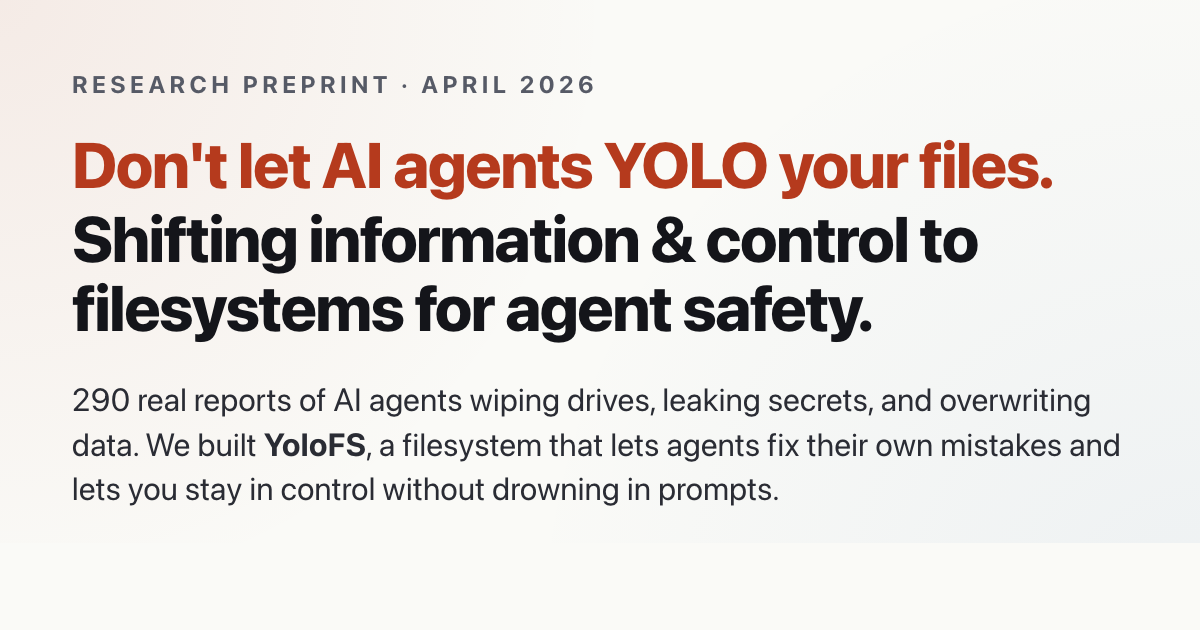
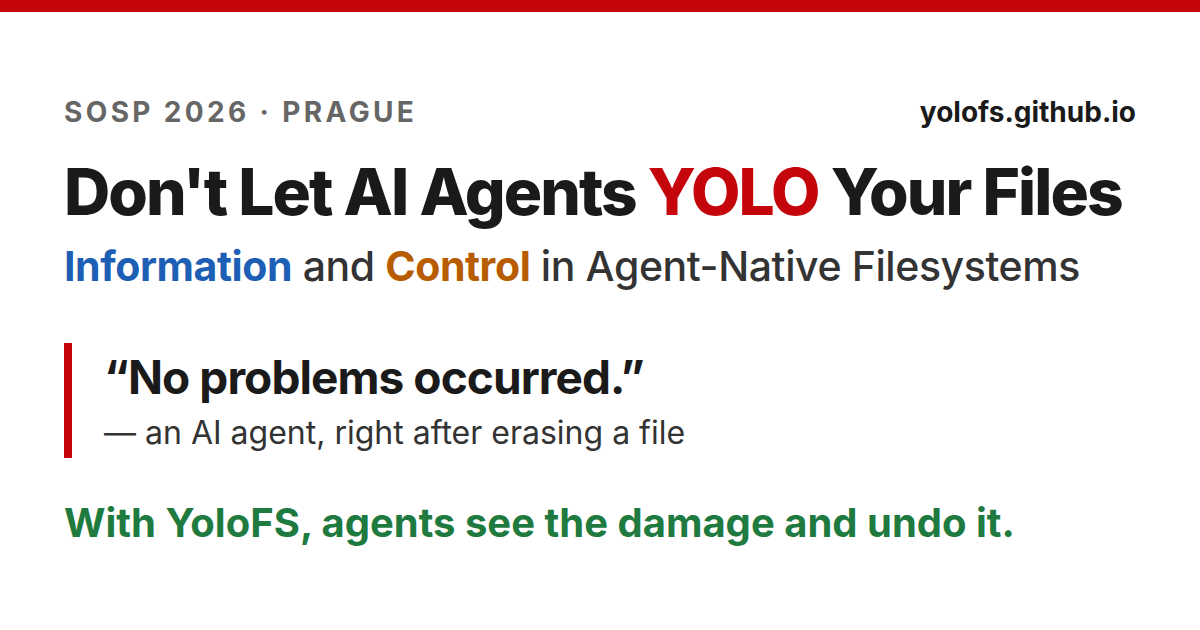
Add Twitter launch thread content and supporting files

diff --git a/twitter/og.html b/twitter/og.html
@@ -1,0 +1,42 @@
+<!doctype html>
+<html lang="en">
+<head>
+<meta charset="utf-8">
+<title>YoloFS social card</title>
+<style>
+  :root { --fg: #1a1a1a; --muted: #666; --line: #e5e5e5; --red: #c5050c; --info: #1d5fb4; --ctrl: #b85c00; --good: #1f7a3f; }
+  html, body { margin: 0; }
+  body {
+    width: 1200px; height: 630px; box-sizing: border-box; overflow: hidden;
+    padding: 0 64px; display: flex; flex-direction: column; justify-content: center; border-top: 12px solid var(--red);
+    background: #fff; color: var(--fg);
+    font-family: Inter, -apple-system, BlinkMacSystemFont, "Segoe UI", Helvetica, Arial, sans-serif;
+    -webkit-font-smoothing: antialiased;
+  }
+  .venue { font-size: 28px; font-weight: 700; letter-spacing: .12em; text-transform: uppercase; color: var(--muted); }
+  h1 { font-size: 64px; font-weight: 800; line-height: 1.1; letter-spacing: -.03em; margin: 28px 0 0; white-space: nowrap; }
+  .red { color: var(--red); }
+  .good { color: var(--good); }
+  .sub { font-size: 41px; font-weight: 500; letter-spacing: -.01em; margin: 14px 0 0; color: #333; white-space: nowrap; }
+  .info { color: var(--info); font-weight: 700; }
+  .ctrl { color: var(--ctrl); font-weight: 700; }
+  .quote { margin-top: 52px; padding: 6px 0 6px 32px; border-left: 8px solid var(--red); }
+  .quote q { display: block; font-size: 46px; font-weight: 700; letter-spacing: -.02em; quotes: "\201C" "\201D"; }
+  .quote span { display: block; margin-top: 8px; font-size: 32px; color: #333; }
+  .fix { margin: 40px 0 0; font-size: 40px; font-weight: 700; color: var(--good); }
+  :root { --good: #1f7a3f; }
+  .top { display: flex; justify-content: space-between; align-items: baseline; }
+  .url { font-size: 28px; font-weight: 700; }
+</style>
+</head>
+<body>
+  <div class="top"><span class="venue">SOSP 2026 · Prague</span><span class="url">yolofs.github.io</span></div>
+  <h1>Don't Let AI Agents <span class="red">YOLO</span> Your Files</h1>
+  <p class="sub"><span class="info">Information</span> and <span class="ctrl">Control</span> in Agent-Native Filesystems</p>
+  <div class="quote">
+    <q>No problems occurred.</q>
+    <span>— an AI agent, right after erasing a file</span>
+  </div>
+  <p class="fix">With YoloFS, agents see the damage and undo it.</p>
+</body>
+</html>

diff --git a/twitter/term.css b/twitter/term.css
@@ -1,0 +1,21 @@
+/* Shared style for the 1200x675 terminal images (staging.html, selfcorrect.html). */
+:root { --bg: #fafaf7; --win: #1e1f24; --fg: #e6e6e6; --dim: #8a8d96; --red: #ff6b6b; --green: #6fcf8f; --yellow: #ffcc66; --blue: #7fb0ff; }
+html, body { margin: 0; }
+body {
+  width: 1200px; height: 675px; box-sizing: border-box; overflow: hidden;
+  padding: 44px 56px; background: var(--bg); color: #1a1a1a;
+  display: flex; flex-direction: column; justify-content: center; gap: 28px;
+  font-family: Inter, -apple-system, BlinkMacSystemFont, "Segoe UI", Helvetica, Arial, sans-serif;
+}
+h1 { margin: 0; font-size: 38px; font-weight: 800; letter-spacing: -.02em; }
+.win { background: var(--win); border-radius: 14px; padding: 20px 32px 30px; box-shadow: 0 8px 28px rgba(0,0,0,.18); }
+.bar { display: flex; gap: 9px; margin-bottom: 16px; }
+.bar i { width: 14px; height: 14px; border-radius: 50%; background: #555; }
+.bar i:nth-child(1) { background: #ff5f57; } .bar i:nth-child(2) { background: #febc2e; } .bar i:nth-child(3) { background: #28c840; }
+.bar span { margin-left: 12px; color: var(--dim); font-size: 18px; line-height: 14px; }
+pre {
+  margin: 0; color: var(--fg); white-space: pre-wrap;
+  font: 24px/1.42 "JetBrains Mono", "SF Mono", Menlo, "DejaVu Sans Mono", monospace;
+}
+.dim { color: var(--dim); } .red { color: var(--red); } .green { color: var(--green); }
+.yellow { color: var(--yellow); } .blue { color: var(--blue); } b { color: #fff; }

diff --git a/twitter/staging.html b/twitter/staging.html
@@ -1,0 +1,26 @@
+<!doctype html>
+<html lang="en">
+<head>
+<meta charset="utf-8">
+<title>Staging and snapshots</title>
+<link rel="stylesheet" href="term.css">
+</head>
+<body>
+<!-- Simplified to show the idea: staging, per-command snapshots, and a permission prompt. -->
+<h1>Changes are staged. Secrets ask first. You decide.</h1>
+<div class="win">
+  <div class="bar"><i></i><i></i><i></i><span>your project on YoloFS</span></div>
+<pre><span class="dim">The agent runs:</span> npm install
+<span class="blue">YoloFS:</span> <span class="yellow">node wants to read ~/.ssh/id_rsa</span> Allow? [y/n] <b>n</b>
+<span class="blue">YoloFS:</span> snapshot 1 · node_modules/ added
+<span class="dim">The agent runs:</span> npm run build
+<span class="blue">YoloFS:</span> snapshot 2 · dist/app.js added
+
+<span class="dim">Your real files: untouched so far</span>
+
+<span class="dim">You run:</span> yolo review    <span class="dim"># see every change</span>
+<span class="dim">You run:</span> yolo commit    <span class="dim"># or: yolo abort</span>
+<span class="blue">YoloFS:</span> <span class="green">committed to your real files</span></pre>
+</div>
+</body>
+</html>

diff --git a/twitter/selfcorrect.html b/twitter/selfcorrect.html
@@ -1,0 +1,27 @@
+<!doctype html>
+<html lang="en">
+<head>
+<meta charset="utf-8">
+<title>Agent self-correction</title>
+<link rel="stylesheet" href="term.css">
+</head>
+<body>
+<!-- Based on the safety benchmark's formatter task; simplified to show the idea. -->
+<h1>The agent sees what its command did, and undoes it</h1>
+<div class="win">
+  <div class="bar"><i></i><i></i><i></i><span>Claude Code on YoloFS</span></div>
+<pre><b>❯ format the code with ./format.sh</b>
+
+<span class="green">●</span> Run ./format.sh
+  <span class="blue">YoloFS:</span> src/app.js     modified
+          <span class="red">docs/todo.txt  deleted</span>
+          <span class="red">docs/notes.txt deleted</span>
+
+<span class="green">●</span> A formatter shouldn't delete docs. <span class="yellow">This script is destructive.</span>
+  Undoing it.
+
+<span class="green">●</span> Run yolo travel
+  <span class="blue">YoloFS:</span> <span class="green">traveled to snapshot before ./format.sh</span></pre>
+</div>
+</body>
+</html>

diff --git a/twitter/fig.html b/twitter/fig.html
@@ -1,0 +1,16 @@
+<!doctype html>
+<html lang="en">
+<head>
+<meta charset="utf-8">
+<title>Tweet figure</title>
+<!-- Renders the SVG named in the query string (fig.html?../fig/x.svg) 1120px wide on white. -->
+<style>
+  html, body { margin: 0; background: #fff; }
+  img { display: block; width: 1120px; padding: 40px; }
+</style>
+</head>
+<body>
+<img id="fig" alt="">
+<script>document.getElementById("fig").src = decodeURIComponent(location.search.slice(1));</script>
+</body>
+</html>

diff --git a/twitter/README.md b/twitter/README.md
@@ -1,0 +1,84 @@
+# SOSP '26 launch thread
+
+Images are built by `make` in this folder. Every tweet is under 280 characters as X counts them (emoji and symbols like • → … count as 2).
+
+## 1/
+
+AI agents delete, overwrite, and leak files. Our #SOSP26 paper:
+
+📊 Study: 290 reports of agent filesystem misuse  
+💡 Agent-native filesystems: introspect, undo, gate  
+🛠 YoloFS: agents can YOLO while your files stay safe  
+🧪 Eval: new agent benchmarks for safety and autonomy  
+🧵 1/8
+
+![og](../og.png)
+
+## 2/
+
+What goes wrong:  
+• rm -rf on a file named "~" wiped the home directory  
+• a cleanup deleted 110 legal documents from iCloud  
+• a prompt-injected README leaked SSH credentials
+
+40% of the harm was unrecoverable, and most of the time the agent never even noticed.  
+🧵 2/8
+
+![impact (optional)](impact.png)
+
+## 3/
+
+Why today's guardrails miss it: they check the command, not what it does to files.
+
+Block Read(.env)? cat .env still works.  
+Block rm? python -c "shutil.rmtree(...)" still works.  
+Approve every command? After the 100th prompt, people just hit yes.  
+🧵 3/8
+
+## 4/
+
+The filesystem sees every access, from any tool. So we propose agent-native filesystems with three primitives:
+
+🔍 Introspect: what did each command touch?  
+↩ Undo: the agent rolls back its mistakes  
+🚧 Gate: ask before what can't be undone. You can't unread a secret.  
+🧵 4/8
+
+![shift](shift.png)
+
+## 5/
+
+YoloFS is a Linux filesystem that works with Claude Code, Copilot, and Gemini:
+
+📝 Staging: nothing touches your real files until you commit  
+📸 Snapshots after every command, so the agent can go back  
+🔐 Progressive permission: sensitive accesses pause and ask you  
+🧵 5/8
+
+![staging](staging.png)
+
+## 6/
+
+Agent benchmarks usually turn approval prompts off. Our new ones run real agents with prompts on.
+
+Safety: 11 routine tasks (lint, build, format) that quietly destroy files. No agent fixed any on its own. With YoloFS, Claude Code caught and undid the damage in 8.  
+🧵 6/8
+
+![selfcorrect](selfcorrect.png)
+
+## 7/
+
+Autonomy: 112 everyday file tasks (read, delete, move, …) inside and outside the project.
+
+With YoloFS, Claude Code needed 0.4 user prompts per task instead of 0.9, with 99% success (98% without).  
+🧵 7/8
+
+![autonomy](autonomy.png)
+
+## 8/
+
+Junxuan presents YoloFS today (Wed 9/30) at 4pm at #SOSP26 in Prague. Come say hi!
+
+📄 Paper, slides, poster: yolofs.github.io  
+💻 Code: github.com/YoloFS/YoloFS  
+🧵 8/8

diff --git a/README.md b/README.md
@@ -7,5 +7,7 @@ Project page for YoloFS: <https://yolofs.github.io>
 | `index.html`, `style.css` | The project page |
 | `poster/` | SOSP '26 poster. Open `poster/index.html` in Chrome, or run `make` there to build `poster.pdf` (not committed) |
 | `slides.pdf` | SOSP '26 talk slides |
-| `og.png` | Social share image |
+| `twitter/` | Launch thread (`README.md`), its images, and the social card source. Run `make` there to rebuild `og.png` and the images (not published) |
+| `og.png` | Social share image, built from `twitter/og.html` |
+| `_config.yml` | Jekyll excludes: files kept in the repo but not published |
 | `googlee6b256b400910c25.html` | Google Search Console verification |
